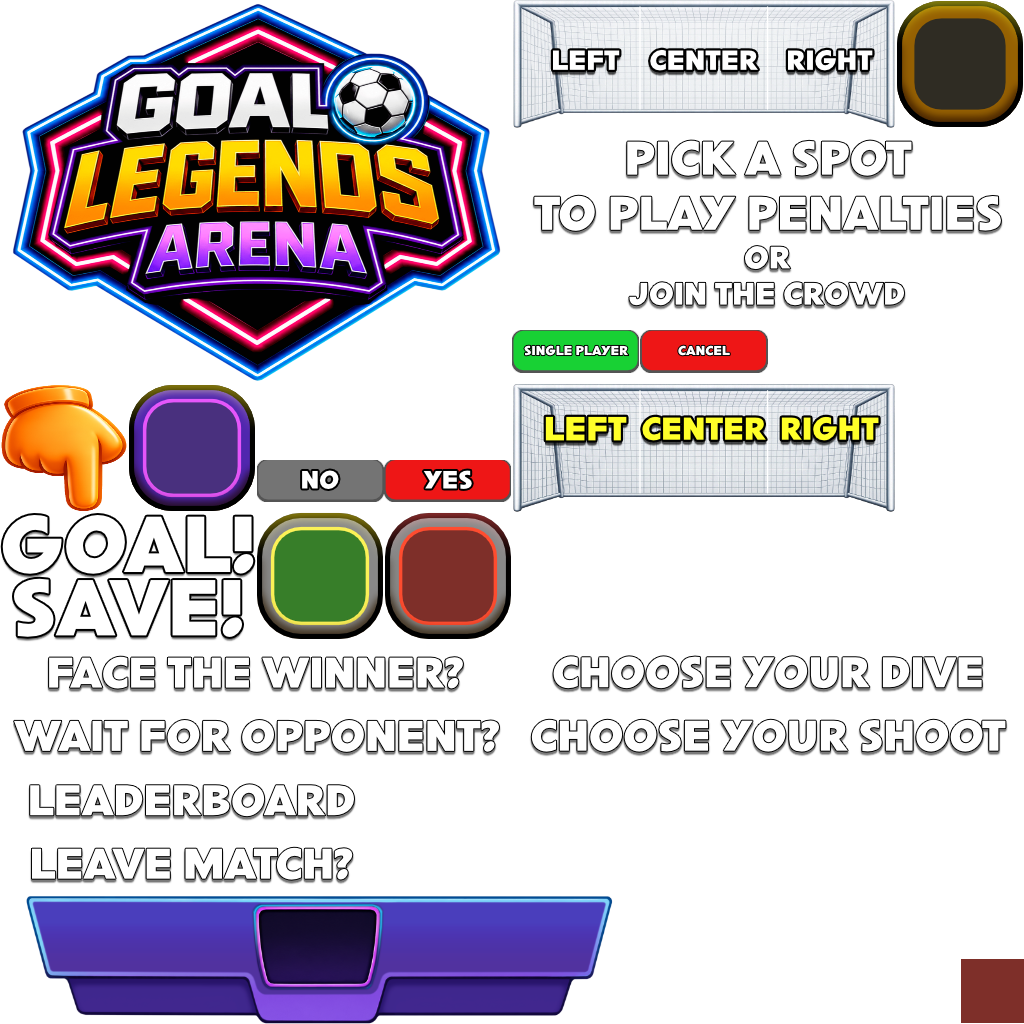
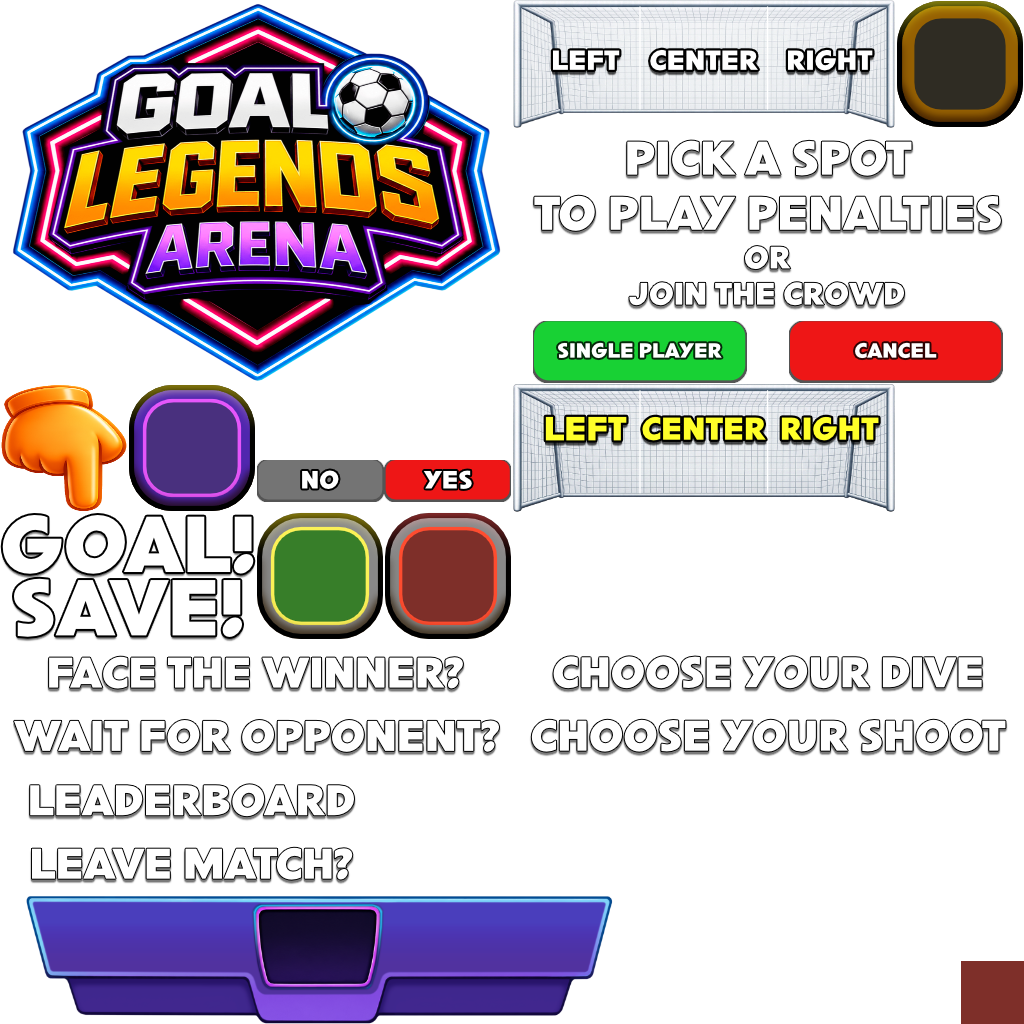
Improve "single player / cancel" buttons

Changed region(s): [[0.5, 0.3125, 1.0, 0.375]]

diff --git a/src/client/uiManager.tsx b/src/client/uiManager.tsx
@@ -52,6 +52,7 @@ import {
   waitingOpponentTitleAspect,
   waitingOpponentPvEButtonBackground,
   waitingOpponentCancelButtonBackground,
+  waitingOpponentButtonAspect,
   leaderboardFrameSliceBackground,
   leaderboardTitleBackground,
   leaderboardTitleAspect,
@@ -819,7 +820,8 @@ const lbRows = getLeaderboardRows(s.leaderboardJson, LEADERBOARD_TOP_N)
   const welcomePanelPadY = isMobile() ? 70 : 44
   const welcomePanelH = welcomeOverlayH + welcomePanelPadY * 2
   const waitBtnW = Math.floor((isMobile() ? 220 * 1.3 : 180) * 1.2)
-  const waitBtnH = Math.floor(waitBtnW / 2)
+  // Alto derivado del aspect real del sprite para no estirarlo.
+  const waitBtnH = Math.floor(waitBtnW / waitingOpponentButtonAspect())
 
   const lbPanelWidthPx = Math.floor(1920 * ((isMobile() ? LEADERBOARD_PANEL_WIDTH_MOBILE_VW : LEADERBOARD_PANEL_WIDTH_VW) / 100))
   const lbSlicePx = isMobile() ? 34 : 28
@@ -1977,7 +1979,7 @@ const lbRows = getLeaderboardRows(s.leaderboardJson, LEADERBOARD_TOP_N)
               flexDirection: 'row',
               alignItems: 'center',
               justifyContent: 'center',
-              margin: { top: isMobile() ? 24 : -6 }
+              margin: { top: isMobile() ? 44 : 16 }
             }}
           >
             <Button

diff --git a/src/client/uiAtlasStore.ts b/src/client/uiAtlasStore.ts
@@ -130,14 +130,22 @@ export function waitingOpponentTitleAspect(): number {
   return uiAtlasRangeAspect(WAITING_TITLE_FROM, WAITING_TITLE_TO)
 }
 
-/** Waiting panel: PvE — UI_atlas E6. */
+/** Waiting panel: PvE (single player) — UI_atlas E6–F6. */
+export const WAITING_PVE_FROM = 'E6'
+export const WAITING_PVE_TO = 'F6'
+
 export function waitingOpponentPvEButtonBackground() {
-  return uiAtlasRangeBackground('E6', 'E6')
+  return uiAtlasRangeBackground(WAITING_PVE_FROM, WAITING_PVE_TO)
 }
 
-/** Waiting panel: Cancel — UI_atlas F6. */
+/** Waiting panel: Cancel — UI_atlas G6–H6. */
 export function waitingOpponentCancelButtonBackground() {
-  return uiAtlasRangeBackground('F6', 'F6')
+  return uiAtlasRangeBackground('G6', 'H6')
+}
+
+/** Aspect (width / height) of the waiting panel buttons (both share the same shape). */
+export function waitingOpponentButtonAspect(): number {
+  return uiAtlasRangeAspect(WAITING_PVE_FROM, WAITING_PVE_TO)
 }
 
 /** Leaderboard title — UI_atlas A13–C13. */
